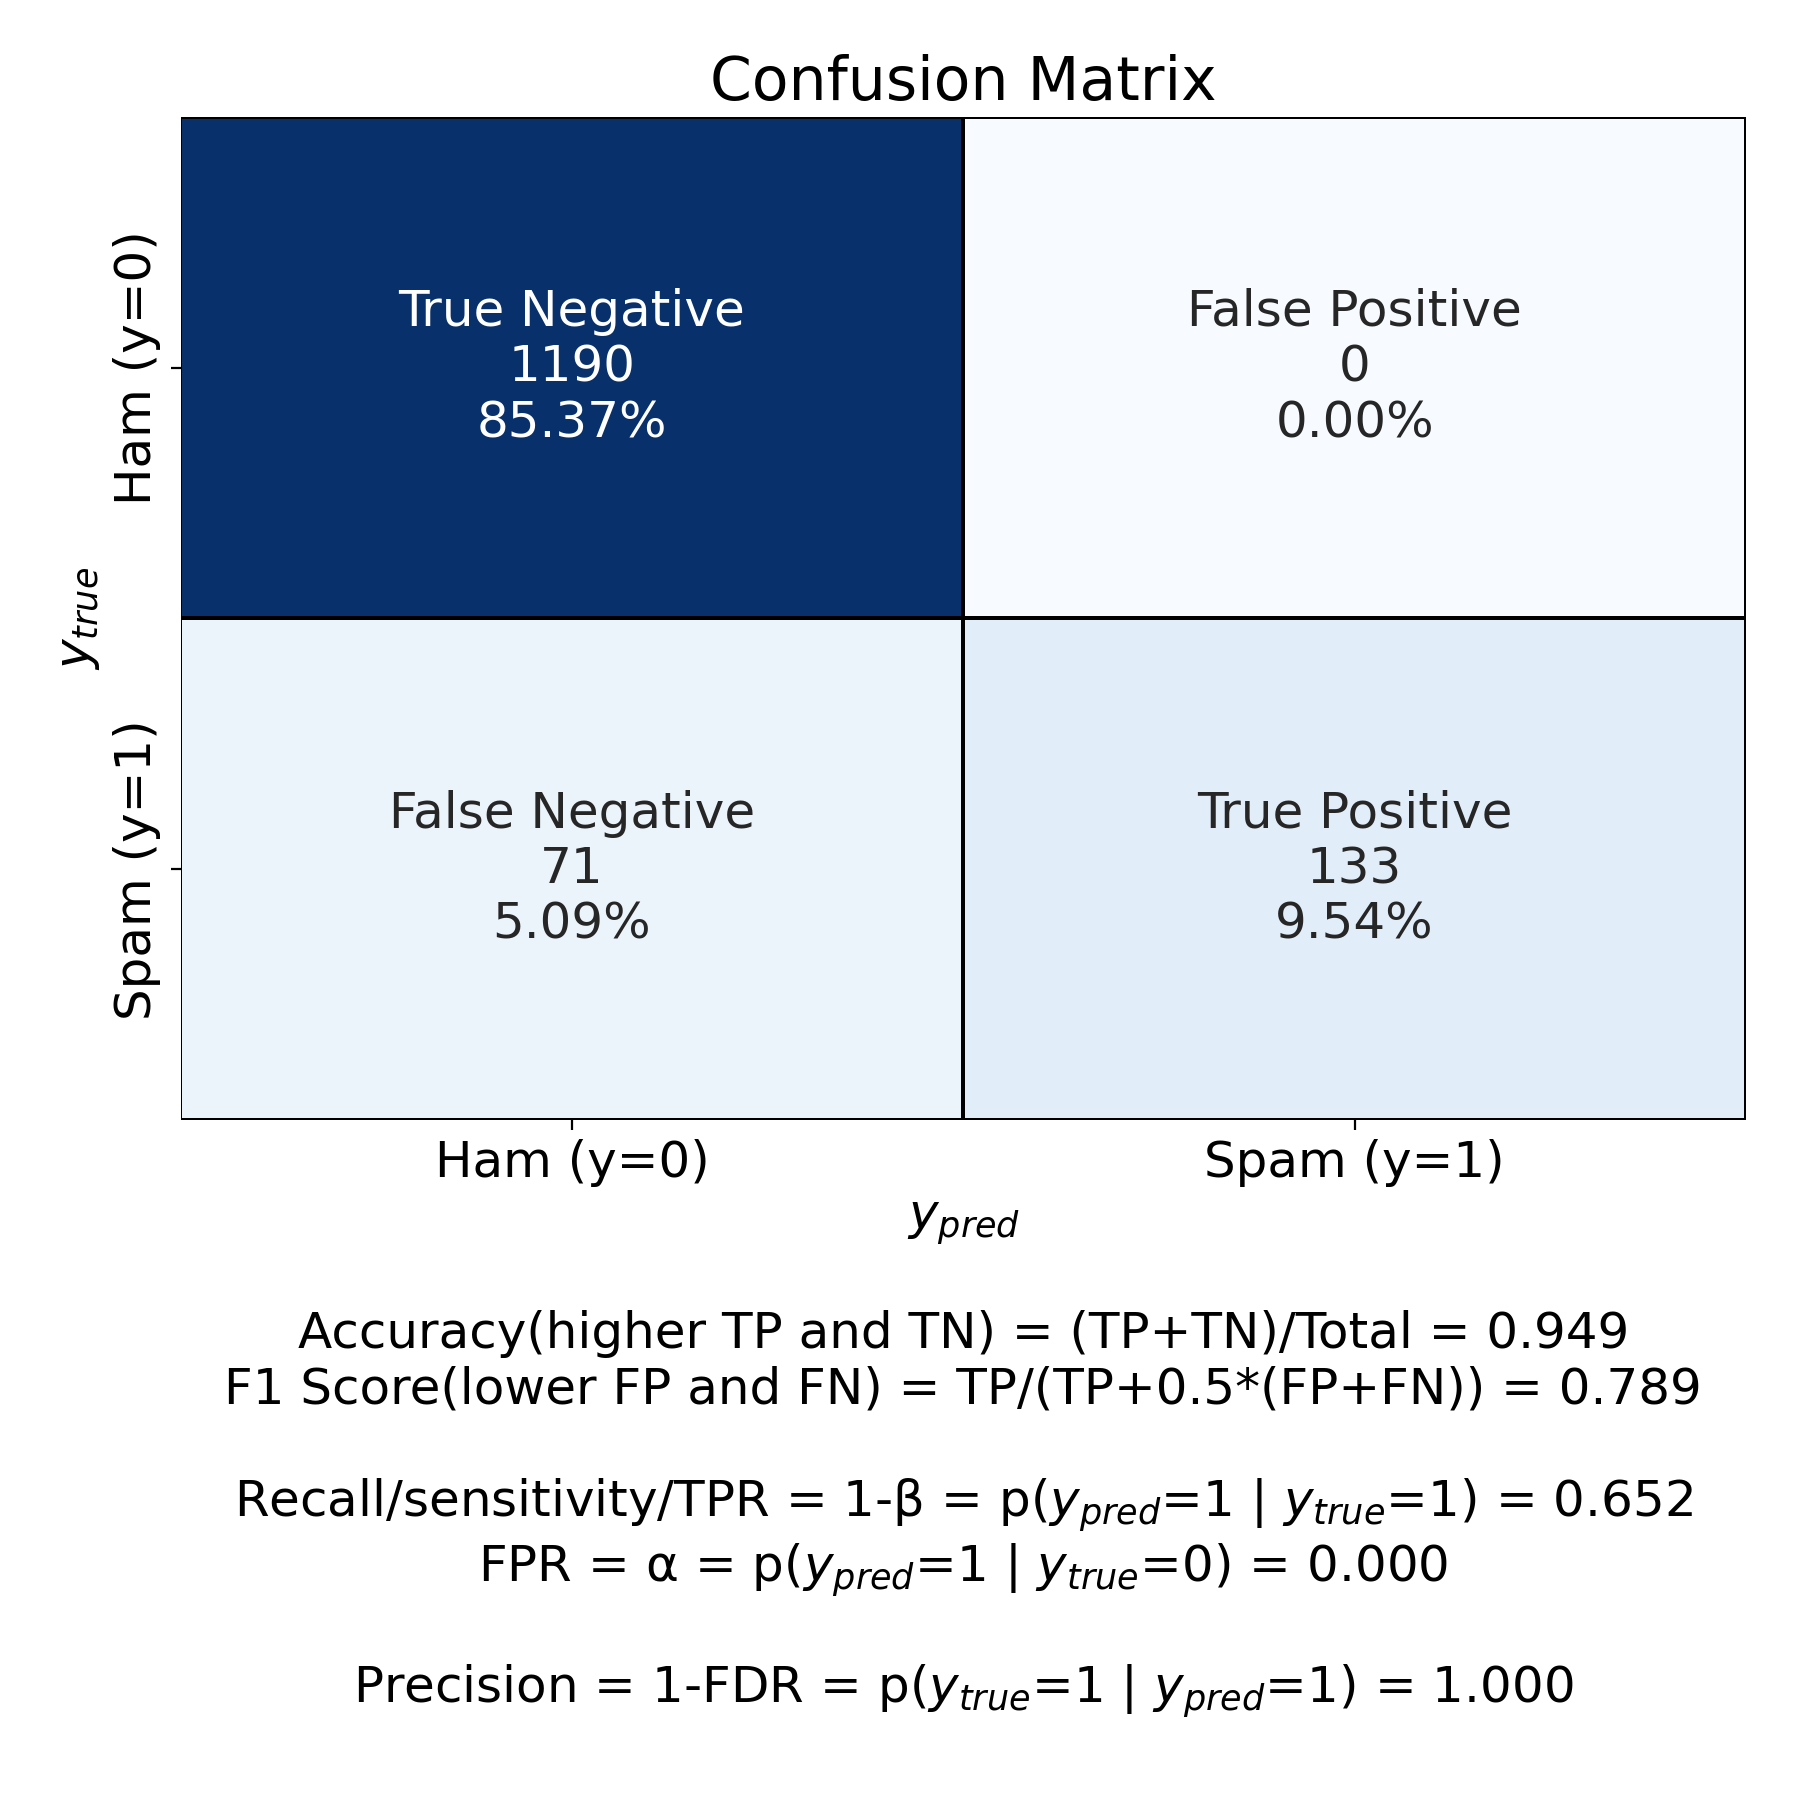
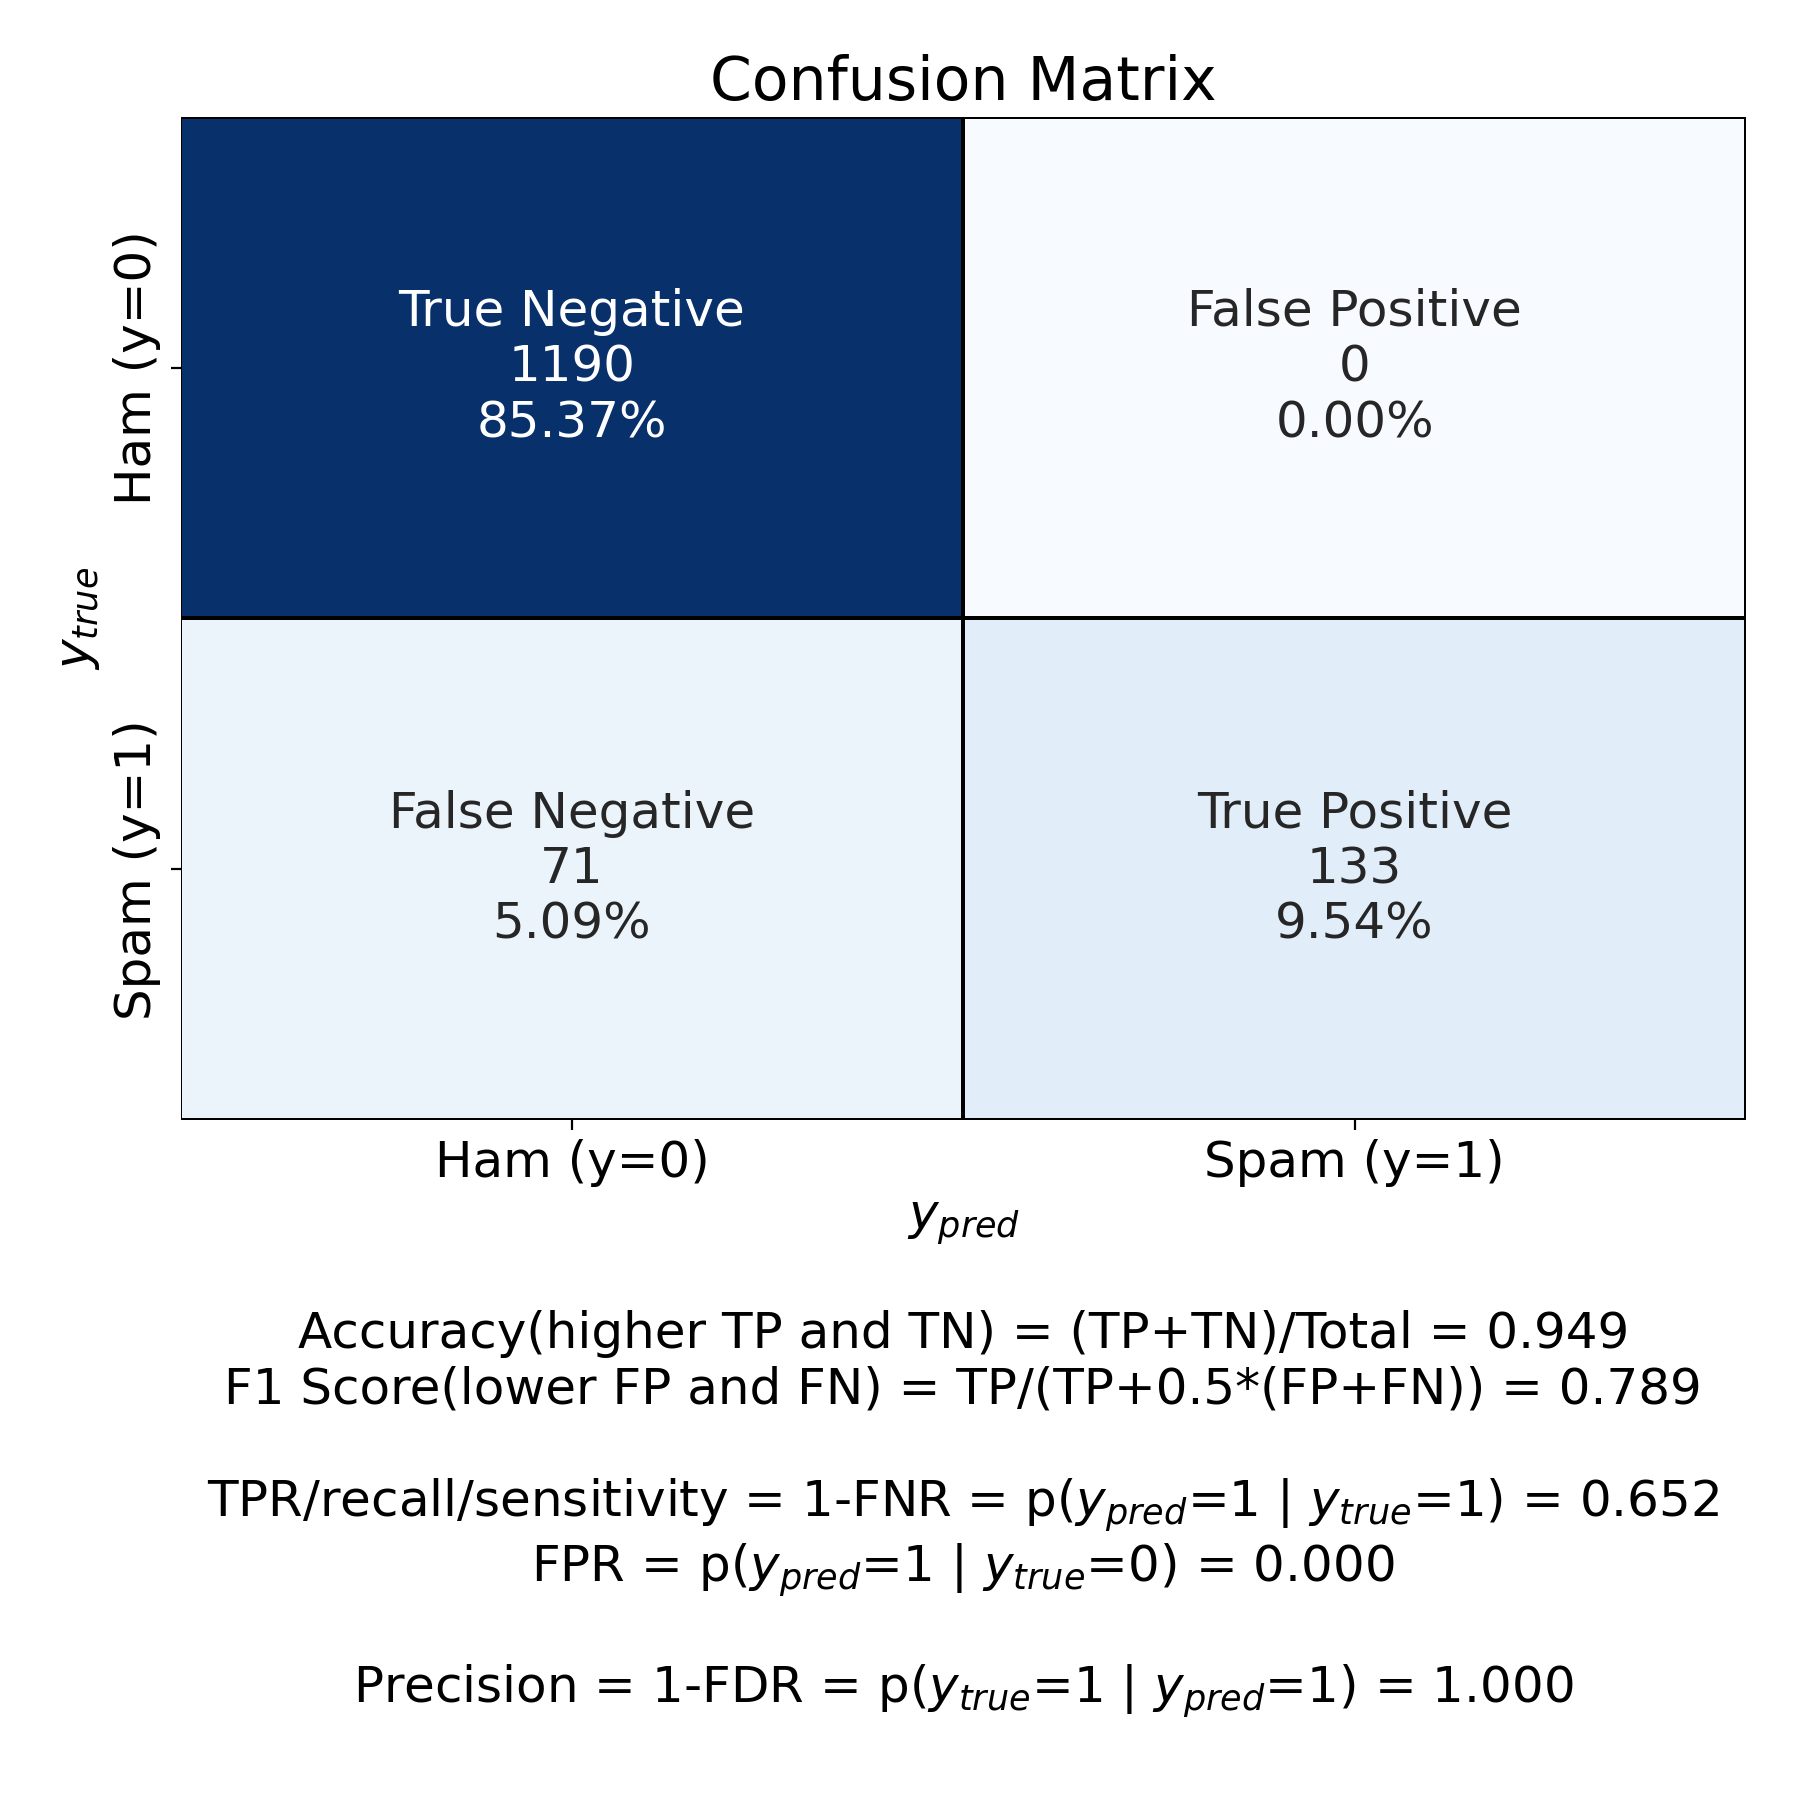
Update

Changed region(s): [[0.1244, 0.8089, 0.9644, 0.9022]]

diff --git a/machlearn/model_evaluation.py b/machlearn/model_evaluation.py
@@ -73,7 +73,7 @@ def plot_confusion_matrix(y_true,
         # or, 2*precision*recall / (precision + recall)
         f1_score = TP / (TP + 0.5*(FP+FN))
         alpha = FP / (TN+FP)
-        stats_text = "\n\nAccuracy(higher TP and TN) = (TP+TN)/Total = {:0.3f}\nF1 Score(lower FP and FN) = TP/(TP+0.5*(FP+FN)) = {:0.3f}\n\nRecall/sensitivity/TPR = 1-β = p($y_{{pred}}$=1 | $y_{{true}}$=1) = {:0.3f}\nFPR = α = p($y_{{pred}}$=1 | $y_{{true}}$=0) = {:0.3f}\n\nPrecision = 1-FDR = p($y_{{true}}$=1 | $y_{{pred}}$=1) = {:0.3f}".format(
+        stats_text = "\n\nAccuracy(higher TP and TN) = (TP+TN)/Total = {:0.3f}\nF1 Score(lower FP and FN) = TP/(TP+0.5*(FP+FN)) = {:0.3f}\n\nTPR/recall/sensitivity = 1-FNR = p($y_{{pred}}$=1 | $y_{{true}}$=1) = {:0.3f}\nFPR = p($y_{{pred}}$=1 | $y_{{true}}$=0) = {:0.3f}\n\nPrecision = 1-FDR = p($y_{{true}}$=1 | $y_{{pred}}$=1) = {:0.3f}".format(
             accuracy, f1_score, recall, alpha, precision)
     else:
         stats_text = "\n\nAccuracy={:0.3f}".format(accuracy)

diff --git a/machlearn/__about__.py b/machlearn/__about__.py
@@ -11,4 +11,4 @@
 # limitations under the License.
 
  
-__version__ = "0.0.25"
+__version__ = "0.0.26"
